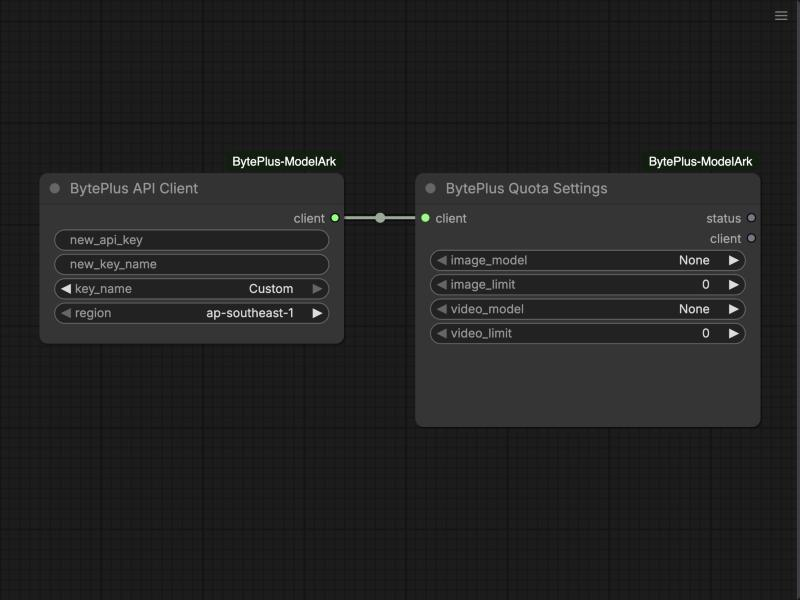
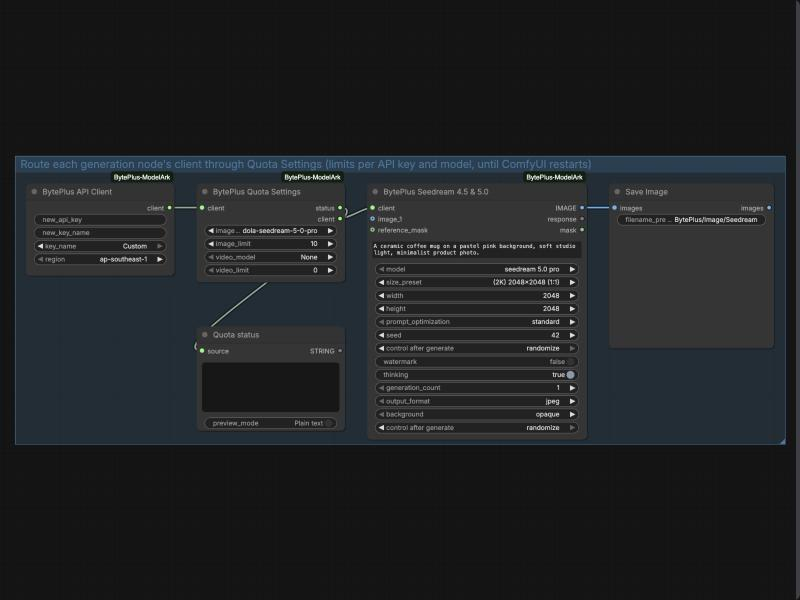
Fix the QuotaSettings template: it had no output node
Quota Settings is not an output node and nothing used its outputs, so the
template failed with "Prompt has no outputs"; its limits were also all
None/0.

The template now routes the client through Quota Settings (a 10-image cap
on Seedream 5.0 Pro) into a Seedream text-to-image node and Save Image,
with the quota status in Preview Any. Thumbnail retaken.

Tests: every node of every template must lead to an output node, and the
quota caps the same model ID the Seedream node uses.

Changed region(s): [[0.0, 0.24, 1.0, 0.75], [0.9688, 0.0, 1.0, 0.03]]

diff --git a/tests/test_workflow_templates.py b/tests/test_workflow_templates.py
@@ -1,3 +1,4 @@
+import importlib.util
 import json
 import os
 import unittest
@@ -25,6 +26,15 @@ EXPECTED_WORKFLOWS = {
 def load_workflow(name):
     with open(os.path.join(WORKFLOW_DIR, name), "r", encoding="utf-8") as file:
         return json.load(file)
+
+
+def load_models_config():
+    """nodes/models_config.py has no imports, so it loads without ComfyUI."""
+    path = os.path.join(PLUGIN_ROOT, "nodes", "models_config.py")
+    spec = importlib.util.spec_from_file_location("byteplus_models_config", path)
+    module = importlib.util.module_from_spec(spec)
+    spec.loader.exec_module(module)
+    return module
 
 
 class WorkflowTemplateTests(unittest.TestCase):
@@ -455,6 +465,48 @@ class WorkflowTemplateTests(unittest.TestCase):
                         self.assertEqual((video["name"], video.get("shape")), ("VIDEO", 6))
                         self.assertTrue(all("shape" not in o for o in node["outputs"][1:]))
         self.assertEqual(found, seedance_nodes)
+
+    # Nodes ComfyUI runs on their own; every other node runs only when one of these uses its output.
+    OUTPUT_NODE_TYPES = {
+        "SaveImage", "PreviewImage", "SaveVideo", "PreviewAny", "PreviewAudio", "SaveAudio",
+        "ImageCompare", "BytePlusVideoQueryTasks",
+    }
+
+    def test_every_node_leads_to_an_output_node(self):
+        # A node that feeds no output node never runs, and a template without one fails
+        # with "Prompt has no outputs".
+        for name in sorted(EXPECTED_WORKFLOWS):
+            workflow = load_workflow(name)
+            types = {node["id"]: node["type"] for node in workflow["nodes"]}
+            consumers = {}
+            for _link_id, origin, _slot, target, _target_slot, _type in workflow["links"]:
+                consumers.setdefault(origin, set()).add(target)
+            runs = {node_id for node_id, node_type in types.items() if node_type in self.OUTPUT_NODE_TYPES}
+            grew = True
+            while grew:
+                grew = False
+                for node_id in types:
+                    if node_id not in runs and consumers.get(node_id, set()) & runs:
+                        runs.add(node_id)
+                        grew = True
+            with self.subTest(workflow=name):
+                self.assertEqual(sorted(types[node_id] for node_id in set(types) - runs), [])
+
+    def test_quota_settings_template(self):
+        workflow = load_workflow("QuotaSettings.json")
+        nodes = {node["id"]: node for node in workflow["nodes"]}
+        quota = next(node for node in nodes.values() if node["type"] == "BytePlusQuotaSettings")
+        seedream = next(node for node in nodes.values() if node["type"] == "BytePlusSeedream")
+        # The guarded client (output 1) feeds the generation node; the status (output 0) is shown.
+        targets = {(link[2], nodes[link[3]]["type"]) for link in workflow["links"] if link[1] == quota["id"]}
+        self.assertEqual(targets, {(1, "BytePlusSeedream"), (0, "PreviewAny")})
+        # A 10-image cap on the model the Seedream node uses (quotas are keyed by model ID).
+        self.assertEqual(quota["widgets_values"], ["dola-seedream-5-0-pro", 10, "None", 0])
+        models = load_models_config()
+        self.assertEqual(
+            models.SEEDREAM_5_MODEL_MAP[quota["widgets_values"][0]],
+            models.SEEDREAM_MODELS[seedream["widgets_values"][1]],
+        )
 
     def test_templates_do_not_embed_api_keys(self):
         for name in sorted(EXPECTED_WORKFLOWS):
